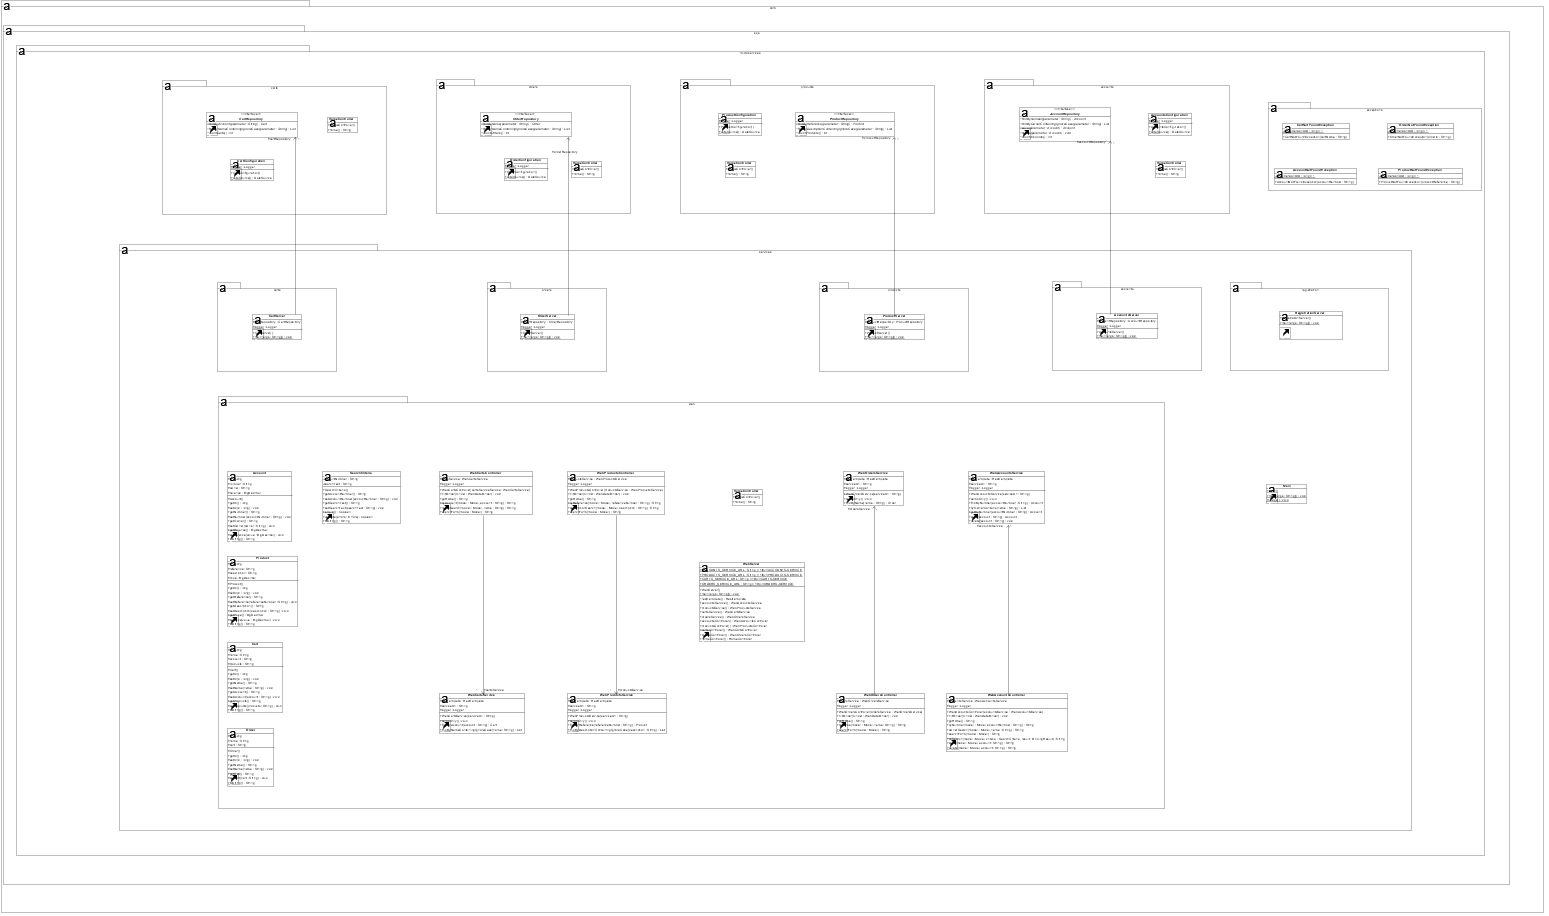
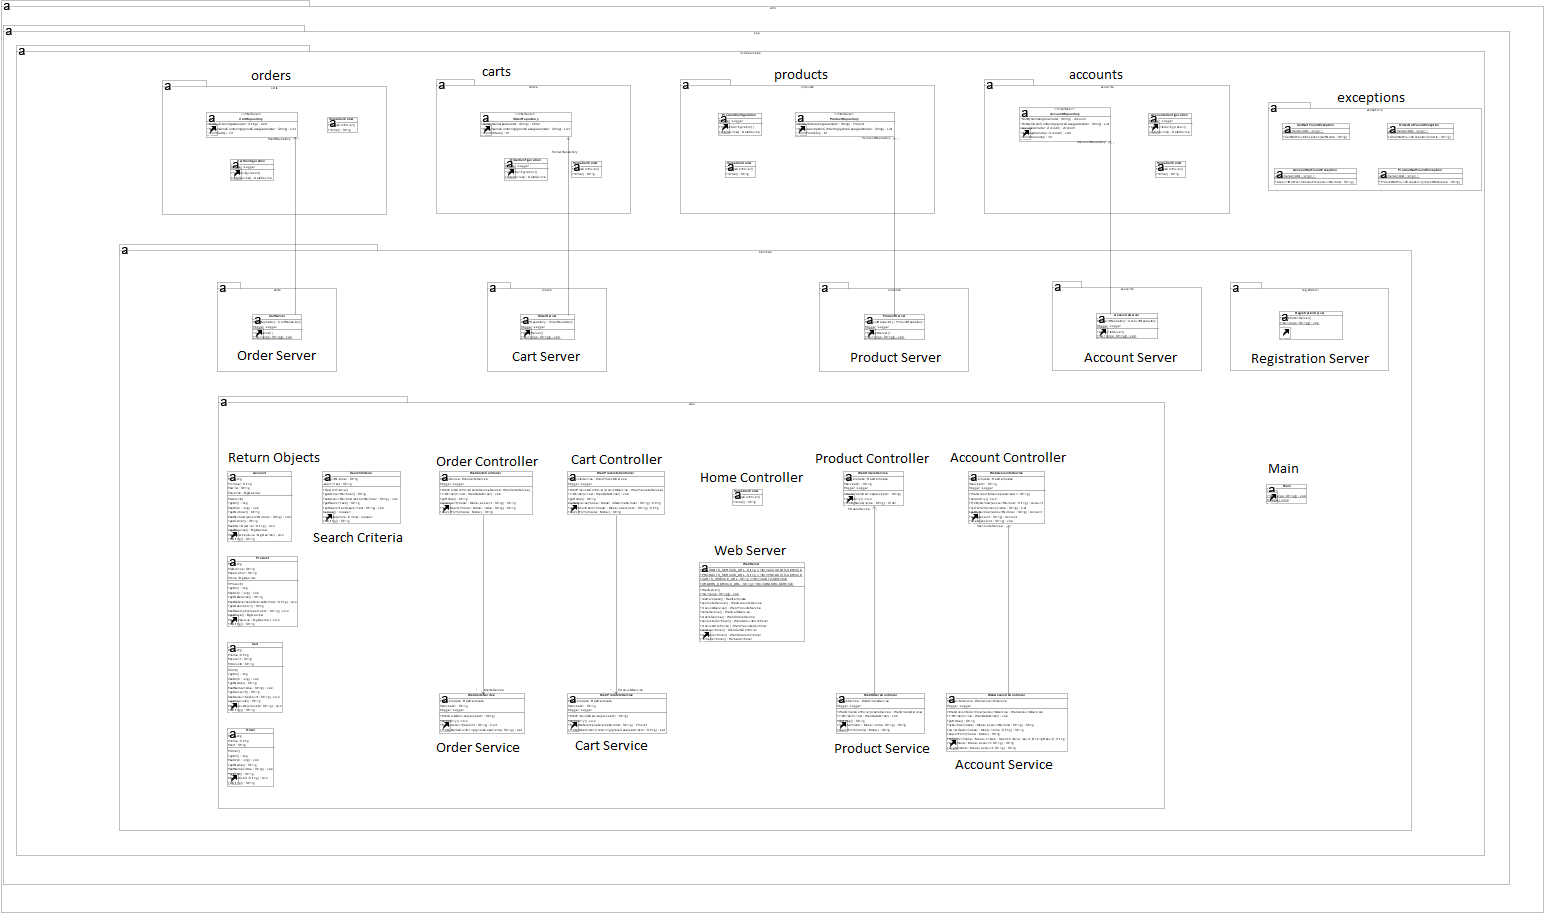
final version reviewed

diff --git a/sqa-memoria/Chapters/Chapter1.tex b/sqa-memoria/Chapters/Chapter1.tex
@@ -34,7 +34,7 @@
 \item \textbf{Continuous Integration:} based on a Jenkins pipeline with the focus put on the environment management job that will switch between Integration and System test environments besides the build and test jobs.
 \end{itemize}
 
-At the same time, two more topics out of the course scope are included in the solution:
+\paragraph At the same time, two more topics out of the course scope are included in the solution:
 
 \begin{itemize}
 \item \textbf{Micro Service based testing:} services within the application under test communicate with each other by exposing REST APIs and an HTML interface for user interaction. Thus the resulting test framework shall be able to send REST requests and allow user interface testing.
@@ -45,14 +45,14 @@ At the same time, two more topics out of the course scope are included in the so
 
 \paragraph Motivation behind this set of topics is heavily driven by the professional projects where the author is involved in and that at the same time, those projects were partly the reason why the author took part of the course. 
 
-Is also noticeable that most of the topics selected are nowadays on the agenda of many companies concerned with current testing capabilities and that want to take a step forward in such a critical matter. From a professional perspective, taking the chance of using this Project as way of introduction and training for some new state-of-the-art testing technologies is also a motivation for the author and a reason for choosing the subject of the Project.
+\paragraph Is also noticeable that most of the topics selected are nowadays on the agenda of many companies concerned with current testing capabilities and that want to take a step forward in such a critical matter. From a professional perspective, taking the chance of using this Project as way of introduction and training for some new state-of-the-art testing technologies is also a motivation for the author and a reason for choosing the subject of the Project.
 
 %----------------------------------------------------------------------------------------
 
 \section{Project Objectives}
 \paragraph Objectives of the project are to describe a full solution for providing automated test capabilities of a fully specified application using the knowledge gathered during the SQA post degree course. This solution shall be coherent with all the technologies and techniques used and thus could be actually used for a real testing project. In order to assure this last point, the solution described is at the same time implemented in a real coding project in what could be considered as a PoC.
 
-So the objectives, in order of importance, are the following:
+\paragraph So the objectives, in order of importance, are the following:
 \begin{itemize}
 \item Provide a full description of the solution proposed, from the test specification to the test reporting, in the form of the present document.
 \item Provide a test specification that covers and describes the functionality of the application under test at integration and system test levels in the form of feature files written in Gherkin language.
@@ -64,7 +64,7 @@ So the objectives, in order of importance, are the following:
 
 %--------------------------------------
 \section{Reviewing}
-In order to get feedback from the supervisor and ease project progress reviewing, both the application development and this document are regularly updated in the author's GitHub public repositories.
+\paragraph Both the application source code and this document can be found in the author's GitHub public repositories:
 \begin{itemize}
 \item Application Development: \hyperref[]{\textcolor[rgb]{0,0,1}{https://github.com/fermt18/sqa-project}}
 \item Project Report: \hyperref[]{\textcolor[rgb]{0,0,1}{https://github.com/fermt18/latex/tree/master/sqa-memoria}}

diff --git a/sqa-memoria/Chapters/Chapter3.tex b/sqa-memoria/Chapters/Chapter3.tex
@@ -120,13 +120,19 @@
 \section{Class Diagram}
 \paragraph After describing the application requirements in the previous sub chapters, the main relationships and dependencies between services are set. The diagram \ref{fig:Class Diagram} shows those dependencies.
 
-\begin{figure}[!htb]
-\centering
-\includegraphics[width=\textwidth,height=\textheight,keepaspectratio]{Figures/ClassDiagram.png}
-\decoRule
-\caption[Class Diagram]{Application class diagram}
-\label{fig:Class Diagram}
-\end{figure}
+%\begin{figure}[!htb]
+%\centering
+%\includegraphics[width=\textwidth,height=\textheight,keepaspectratio]{Figures/ClassDiagram.png}
+%\decoRule
+%\caption[Class Diagram]{Application class diagram}
+%\label{fig:Class Diagram}
+%\end{figure}
+\begin{sidewaysfigure}[ht]
+    \includegraphics[width=\textwidth,height=\textheight,keepaspectratio]{Figures/ClassDiagram.png}
+    \caption{Application class diagram}
+    \label{fig:Class Diagram}
+\end{sidewaysfigure}
+
 
 \paragraph So at the end the feature files define requirements for both a service provider and a service consumer and that those services shall be independent between each other. In \ref{fig:Class Diagram} the four service packages are found at the top of the diagram (the right most package correspond to the Exceptions classes used by the services) which are Accounts service, Product service, Cart service and Order service. Here is where the data model and the provider REST API is configured. Registration service is configured within Spring and so no need a package here. Each one of these service classes has then a connection to the the server classes below, used for triggering each service and for exposing its REST API. The right most server package host the server class for the Registration service. 
 
@@ -136,7 +142,7 @@
 
 \section{REST API}
 
-The features described before define some requests to the services that are fulfilled with the following REST API.
+\paragraph The features described before define some requests to the services that are fulfilled with the following REST API.
 
 \subsection{Producer API}
 

diff --git a/sqa-memoria/Chapters/Chapter2.tex b/sqa-memoria/Chapters/Chapter2.tex
@@ -119,17 +119,19 @@ All services are accessed thorugh one single Main class that will trigger one or
 
 
 \section{Assumptions}
-Some assumptions and restrictions have been done when programming the application mainly to ease the coding part of the application, which actually is not a topic included in the course agenda.\\
+\paragraph Some assumptions and restrictions have been done when programming the application mainly to ease the coding part of the application, which actually is not a topic included in the course agenda.\\
  
-- There are no user roles within the application. Any user can both create products and accounts as well as create carts and buy products through orders. This might make no sense from the functional point of view but eases the programming of the application.\\
+\begin{itemize}
+\item There are no user roles within the application. Any user can both create products and accounts as well as create carts and buy products through orders. This might make no sense from the functional point of view but eases the programming of the application.\\
 
-- No stock data is used. Offering the possibility of increase and decrease the product stocks would create some relationships between services and their databases that would have added complexity to the coding.\\
+\item No stock data is used. Offering the possibility of increase and decrease the product stocks would create some relationships between services and their databases that would have added complexity to the coding.\\
 
-- All databases are initialized with one test entry:
+\item All databases are initialized with one test entry:
 
 \begin{itemize}
 \item Account: 000000001, "TestUser", 1000
 \item Product: ref001, "10", "Simple mouse"
 \item Cart: C001, 000000001, ref001
 \item Order: O001, C001
+\end{itemize}
 \end{itemize}

diff --git a/sqa-memoria/Chapters/Chapter5.tex b/sqa-memoria/Chapters/Chapter5.tex
@@ -48,5 +48,5 @@
 
 \section{Work Achieved}
 
-If compared with the project objectives in chapter \ref{Chapter1}, the work achieved at the end of the project fits with those objectives. From a practical point of view some of the test steps were left without implementation but the objective behind can be considered as accomplished. In the same direction, the number of features written could have been much larger, including the Component test level, but it would have not added any value to the project objectives as a real test of the application is out of the scope of the project.
+\paragraph If compared with the project objectives in chapter \ref{Chapter1}, the work achieved at the end of the project fits with those objectives. From a practical point of view some of the test steps were left without implementation but the objective behind can be considered as accomplished. In the same direction, the number of features written could have been much larger, including the Component test level, but it would have not added any value to the project objectives as a real test of the application is out of the scope of the project.
 

diff --git a/sqa-memoria/sqa-memoria.tex b/sqa-memoria/sqa-memoria.tex
@@ -48,6 +48,17 @@ headsepline, % Uncomment to get a line under the header
 
 \usepackage[autostyle=true]{csquotes} % Required to generate language-dependent quotes in the bibliography
 
+\usepackage{graphicx}
+\usepackage{wrapfig}
+\usepackage{lscape}
+\usepackage{rotating}
+\usepackage{epstopdf}
+
+%\usepackage{hyperref}% http://ctan.org/pkg/hyperref
+%\hypersetup{%
+%  colorlinks = true,
+%  linkcolor  = black
+%}
 %----------------------------------------------------------------------------------------
 %	MARGIN SETTINGS
 %----------------------------------------------------------------------------------------
@@ -194,6 +205,7 @@ For test execution, the Java implementation of the Cucumber framework has been u
 %	LIST OF CONTENTS/FIGURES/TABLES PAGES
 %----------------------------------------------------------------------------------------
 
+\hypersetup{linkcolor=black}
 \tableofcontents % Prints the main table of contents
 
 \listoffigures % Prints the list of figures
